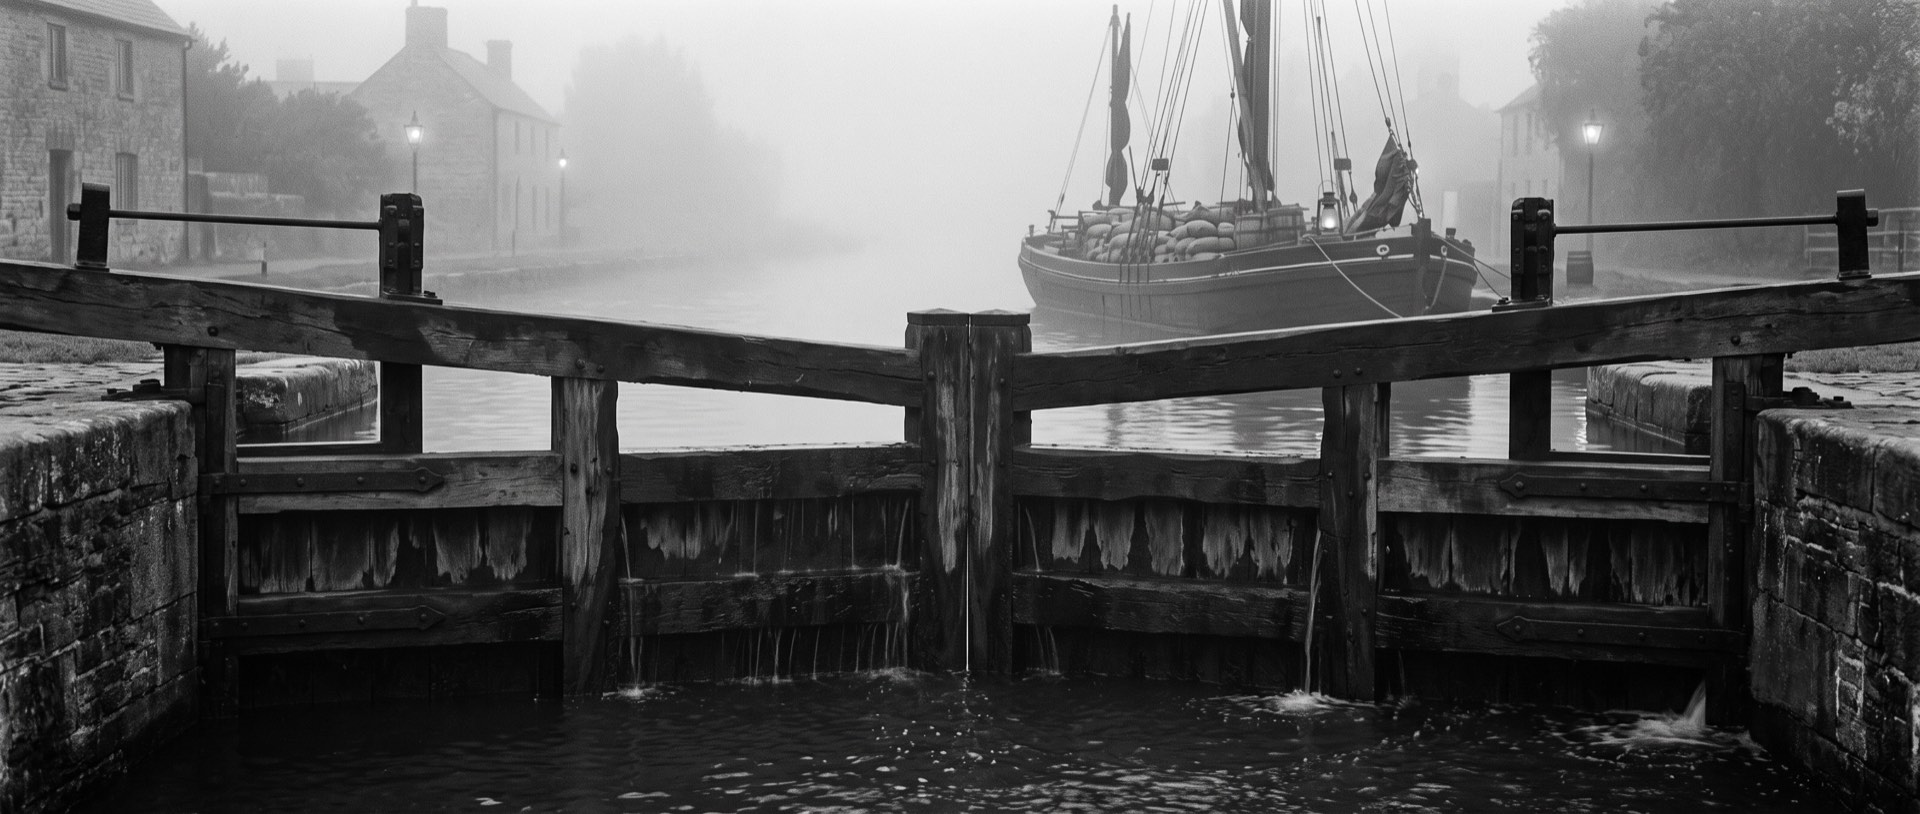
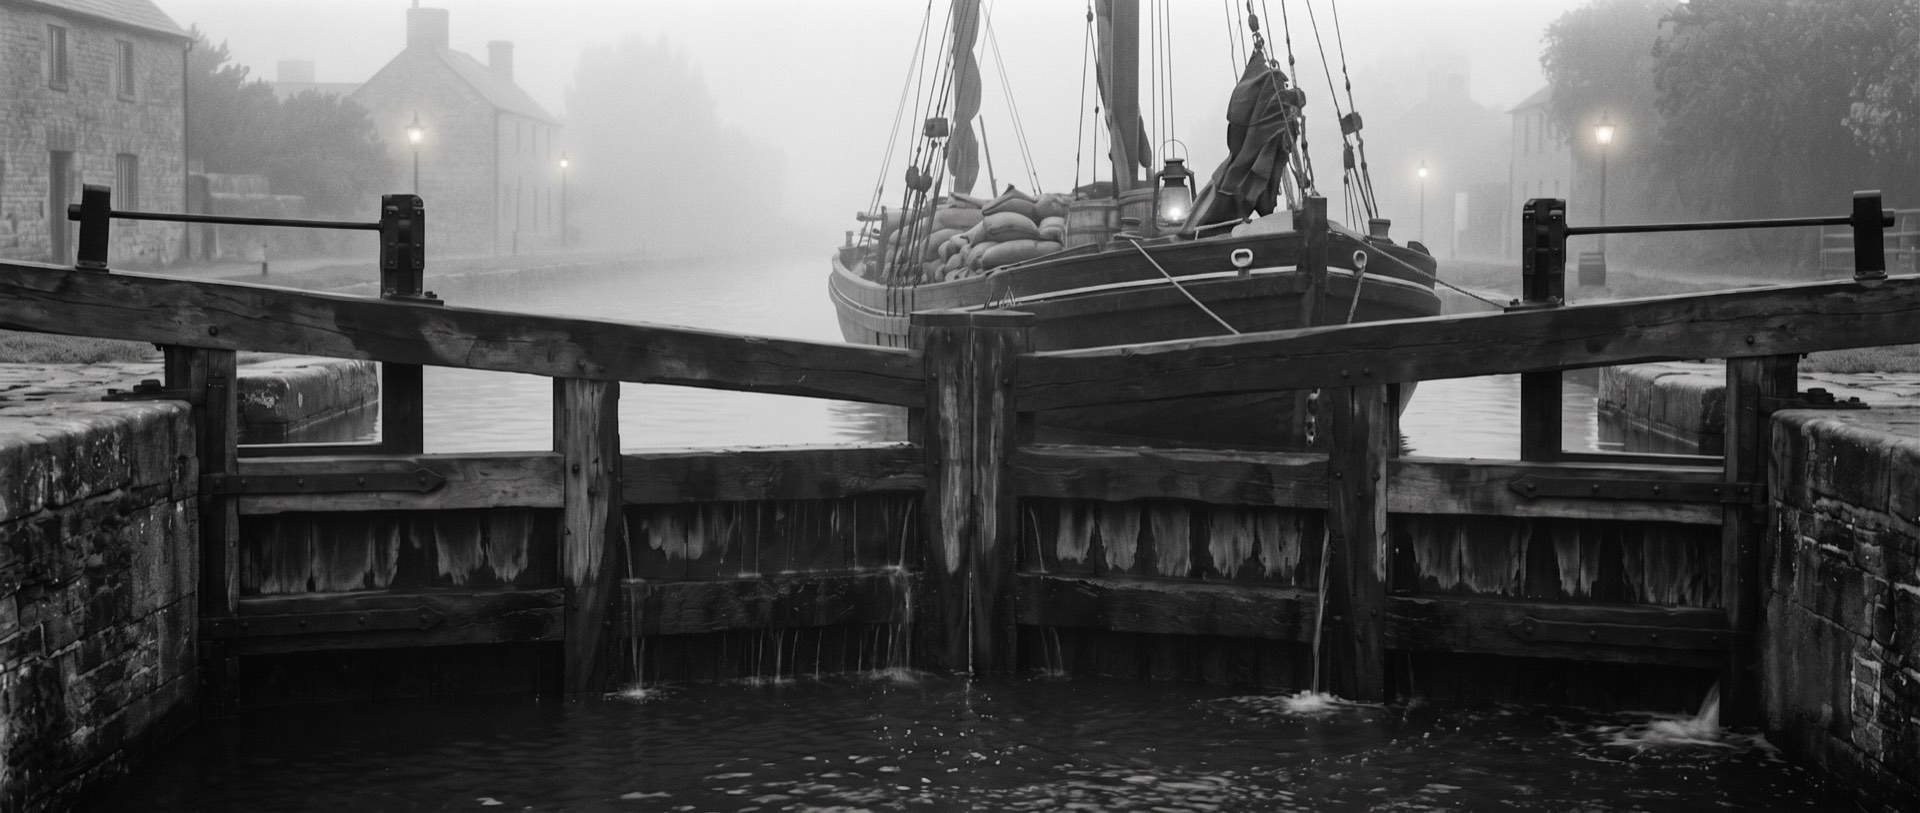
part 4 cover.

diff --git a/.claude/skills/optimize-cover/SKILL.md b/.claude/skills/optimize-cover/SKILL.md
@@ -6,11 +6,11 @@ description: Convert a blog post cover image (PNG/large JPG) into an optimized J
 # Optimize Cover Image
 
 Convert an oversized or PNG cover into an optimized JPG consistent with the existing covers
-in `public/assets/blog/post/<slug>/cover.jpg`.
+in `public/assets/blog/post/<slug>/`.
 
 ## Target spec (match the other covers)
 
-- **Format:** JPG (`cover.jpg`)
+- **Format:** JPG
 - **Width:** 1920px (height scales proportionally)
 - **Weight:** ~200–290 KB. Peers range ~180–260 KB.
 - **Quality:** start at JPEG quality **65** via `sips`. Bump up/down only if the file lands
@@ -18,35 +18,53 @@ in `public/assets/blog/post/<slug>/cover.jpg`.
 
 ## Steps
 
-1. **Locate the source.** Default target folder: `public/assets/blog/post/<slug>/`. If the user
-   names a post or points at a file, use that. Confirm the current dimensions and size:
+1. **Pick the source image.** If the user named a post, file, or folder, use it. Otherwise
+   list the candidate images so the choice is explicit:
+   ```
+   ls -la public/assets/blog/post/<slug>/
+   ```
+   If more than one image could be the source (e.g. `cover.png` and `cover2.png`), **ask the
+   user which one to optimize** rather than guessing. Confirm its dimensions and size:
    ```
    sips -g pixelWidth -g pixelHeight <source>
    ```
 
-2. **Convert + resize** to `cover.jpg` in the same folder:
-   ```
-   sips -s format jpeg -s formatOptions 65 --resampleWidth 1920 <source> --out cover.jpg
-   ```
-   If the source is already `cover.jpg`, write to a temp name and swap, or resize in place.
+2. **Decide the output name — never overwrite by default.** The default output name is the
+   **same basename as the source, with the suffix changed to `.jpg`** (e.g. `cover2.png` →
+   `cover.jpg`, `hero.png` → `hero.jpg`). Do **not** default to `cover.jpg`.
+   - If a different name is wanted (e.g. promoting the source to the post's real `cover.jpg`),
+     **ask the user** for the target name.
+   - Before writing, check whether the target name already exists. If it does and it isn't the
+     source itself, **ask the user** before overwriting — don't clobber an existing cover silently.
 
-3. **Check the result** — dimensions and file size:
+3. **Convert + resize** to the chosen output name in the same folder:
    ```
-   sips -g pixelWidth -g pixelHeight cover.jpg && ls -la cover.jpg
+   sips -s format jpeg -s formatOptions 65 --resampleWidth 1920 <source> --out <target>.jpg
+   ```
+   If the source and target are the same file (resizing a `.jpg` in place), write to a temp
+   name first and swap.
+
+4. **Check the result** — dimensions and file size:
+   ```
+   sips -g pixelWidth -g pixelHeight <target>.jpg && ls -la <target>.jpg
    ```
    If size is far above ~290 KB, drop quality (e.g. 55); if it looks under-compressed/soft
    and well under ~180 KB, raise it (e.g. 75).
 
-4. **Remove the original** if it was a different file (e.g. the source `cover.png`). Use
-   `/bin/rm -f <source>` — the shell aliases `rm` to interactive mode, which stalls on a prompt.
+5. **Remove the source** only if it's a different file from the target (e.g. the `.png` source
+   after producing the `.jpg`), and only once the user's intent is clear that the source is no
+   longer needed. Use `/bin/rm -f <source>` — the shell aliases `rm` to interactive mode, which
+   stalls on a prompt. When in doubt, leave the source in place and mention it.
 
-5. **Check the frontmatter.** If the extension changed (`.png` → `.jpg`), verify the post's
-   `coverImage:` in `_posts/<slug>.md` (and any inline `![](...)` references) point to
-   `cover.jpg`. Update if needed.
+6. **Check the frontmatter.** If the post should point at the new file (extension or name
+   changed), verify the post's `coverImage:` in `_posts/<slug>.md` (and any inline `![](...)`
+   references) point to the right filename. Update if needed.
 
-6. **Report** the before/after: format, size, and dimensions.
+7. **Report** the before/after: source → target name, format, size, and dimensions.
 
 ## Notes
 
 - `sips` is built into macOS — no extra tooling needed.
-- Keep the filename `cover.jpg` (per repo convention in `public/assets/blog/post/<folder>/`).
+- Repo convention is a `cover.jpg` per post folder in `public/assets/blog/post/<folder>/`, but
+  producing an alternate name (e.g. `cover.jpg`) is fine — promoting it to `cover.jpg` is a
+  separate, explicit step the user must confirm.
